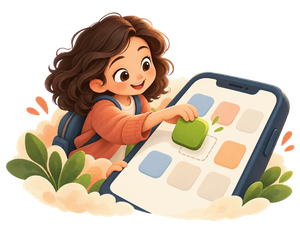
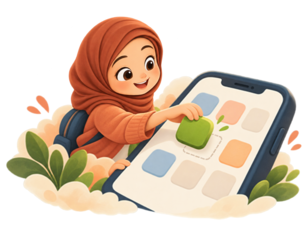
feat: replace Loader2 with Skeleton for improved loading indicators and update fee status chart configuration

diff --git a/app/teacher/fees/page.tsx b/app/teacher/fees/page.tsx
@@ -3,6 +3,7 @@ import { DashboardLayout } from "@/components/DashboardLayout";
 import { PageHeader } from "@/components/ui/PageHeader";
 import { IllustratedEmptyState } from "@/components/ui/IllustratedEmptyState";
 import { ApiErrorBanner } from "@/components/ui/ApiErrorBanner";
+import { Skeleton } from "@/components/ui/Skeleton";
 import { Input } from "@/components/ui/input";
 import { Textarea } from "@/components/ui/textarea";
 import { Button } from "@/components/ui/button";
@@ -37,7 +38,6 @@ import { useLanguageStore } from "@/store/language";
 import { t, type Lang } from "@/lib/i18n";
 import { cn } from "@/lib/utils";
 import {
-  Loader2,
   Receipt,
   Printer,
   IndianRupee,
@@ -52,6 +52,13 @@ import { PolarAngleAxis, RadialBar, RadialBarChart } from "recharts";
 
 const feeProgressChartConfig = {
   collected: { color: "#059669" },
+} satisfies ChartConfig;
+
+const feeStatusChartConfig = {
+  paid: { label: "Paid", color: "#059669" },
+  overdue: { label: "Overdue", color: "#dc2626" },
+  pending: { label: "Pending", color: "#f59e0b" },
+  waived: { label: "Waived", color: "#9ca3af" },
 } satisfies ChartConfig;
 
 const formatCurrency = (amount: number) => `₹${amount.toLocaleString("en-IN")}`;
@@ -262,34 +269,50 @@ function FeeSemiCircle({
   description: string;
 }) {
   const total = segments.reduce((sum, segment) => sum + segment.value, 0);
-  let position = 0;
-  const point = (fraction: number) => {
-    const angle = Math.PI * (1 - fraction);
-    return [100 + 78 * Math.cos(angle), 94 - 78 * Math.sin(angle)];
-  };
+  const chartData = [
+    {
+      ...Object.fromEntries(segments.map((segment, index) => [`segment${index}`, segment.value])),
+      empty: total === 0 ? 1 : 0,
+    },
+  ];
 
   return (
-    <svg viewBox="0 0 200 108" role="img" aria-label={description} className="mx-auto h-24 w-full max-w-52 sm:h-28">
-      <path d="M 22 94 A 78 78 0 0 1 178 94" fill="none" stroke="#e5e7eb" strokeWidth="17" strokeLinecap="round" />
-      {total > 0 && segments.map((segment, index) => {
-        const start = position;
-        position += segment.value / total;
-        if (segment.value <= 0) return null;
-        const [x1, y1] = point(start);
-        const [x2, y2] = point(position);
-        return (
-          <path
-            key={index}
-            d={`M ${x1} ${y1} A 78 78 0 0 1 ${x2} ${y2}`}
-            fill="none"
-            stroke={segment.color}
-            strokeWidth="17"
-          />
-        );
-      })}
-      <text x="100" y="72" textAnchor="middle" className="fill-gray-950 text-[23px] font-semibold">{value}</text>
-      <text x="100" y="89" textAnchor="middle" className="fill-gray-500 text-[13px] font-medium">{label}</text>
-    </svg>
+    <div className="relative mx-auto h-36 w-full max-w-72 sm:h-44" role="img" aria-label={description}>
+      <ChartContainer
+        config={feeStatusChartConfig}
+        initialDimension={{ width: 288, height: 176 }}
+        className="!aspect-auto h-full w-full"
+        aria-hidden="true"
+      >
+        <RadialBarChart
+          data={chartData}
+          startAngle={180}
+          endAngle={0}
+          cx="50%"
+          cy="92%"
+          innerRadius={88}
+          outerRadius={112}
+        >
+          <PolarAngleAxis type="number" domain={[0, Math.max(total, 1)]} tick={false} />
+          {segments.map((segment, index) => (
+            <RadialBar
+              key={index}
+              dataKey={`segment${index}`}
+              stackId="fees"
+              fill={segment.color}
+              isAnimationActive={false}
+            />
+          ))}
+          {total === 0 && (
+            <RadialBar dataKey="empty" fill="#e5e7eb" isAnimationActive={false} />
+          )}
+        </RadialBarChart>
+      </ChartContainer>
+      <div className="pointer-events-none absolute inset-x-0 bottom-3 text-center">
+        <div className="text-3xl font-semibold tabular-nums text-gray-950">{value}</div>
+        <div className="text-[16px] font-medium text-gray-500">{label}</div>
+      </div>
+    </div>
   );
 }
 
@@ -803,8 +826,25 @@ export default function TeacherFeesPage() {
       {error && <ApiErrorBanner message={error} onRetry={loadPayments} />}
 
       {payLoading ? (
-            <div className="flex items-center justify-center py-10 text-gray-400">
-              <Loader2 className="w-4 h-4 animate-spin" />
+            <div className="space-y-4" role="status" aria-label={t("common", "loading", lang)}>
+              <Skeleton className="h-44 rounded-2xl" />
+              <Skeleton className="h-5 w-28 rounded-lg" />
+              <div className="divide-y divide-gray-100 overflow-hidden rounded-2xl bg-white">
+                {Array.from({ length: 4 }).map((_, index) => (
+                  <div key={index} className="flex items-center gap-3 px-4 py-4 sm:gap-4">
+                    <div className="min-w-0 flex-1 space-y-2">
+                      <Skeleton className="h-4 w-2/5" />
+                      <Skeleton className="h-3 w-3/5" />
+                    </div>
+                    <div className="space-y-2">
+                      <Skeleton className="h-4 w-20" />
+                      <Skeleton className="ml-auto h-3 w-14" />
+                    </div>
+                    <Skeleton className="size-[30px] shrink-0 rounded-full" />
+                    <Skeleton className="h-5 w-5 shrink-0 rounded-md" />
+                  </div>
+                ))}
+              </div>
             </div>
           ) : feeTypes.length === 0 && payments.length === 0 && !error ? (
             <IllustratedEmptyState

diff --git a/app/teacher/best-performance/page.tsx b/app/teacher/best-performance/page.tsx
@@ -41,15 +41,15 @@ function ReportCard({ category, lang, count, downloading, onDownload, onPosters 
       <div className="relative z-10 flex h-full min-w-0 flex-col items-start justify-center pr-24 sm:pr-36">
         <h2 className="text-sm font-bold leading-5 text-gray-950 sm:text-base">{isMalayalam ? (category === "total" ? "ക്ലാസ് പ്രകടന റിപ്പോർട്ടും മികച്ച വിദ്യാർത്ഥികളുടെ പോസ്റ്ററുകളും" : "ഇബാദത്ത് പ്രകടന റിപ്പോർട്ടും മികച്ച വിദ്യാർത്ഥികളുടെ പോസ്റ്ററുകളും") : (category === "total" ? "Class performance report and top-student posters" : "Ibadah performance report and top-student posters")}</h2>
         {/* <p className="mt-1 text-xs leading-4 text-gray-600">{isMalayalam ? "ഈ കാലയളവിലെ മുഴുവൻ റാങ്കിംഗും ആദ്യ മൂന്ന് വിദ്യാർത്ഥികളുടെ വ്യക്തിഗത പോസ്റ്ററുകളും ലഭിക്കും." : "Get the full ranking for this period or a personalized poster for each of the top three students."}</p> */}
-        <ButtonGroup className="mt-4" aria-label={isMalayalam ? "പ്രകടന ഫയലുകൾ" : "Performance files"}>
+        <div className="mt-4 flex gap-2" aria-label={isMalayalam ? "പ്രകടന ഫയലുകൾ" : "Performance files"}>
           <Button type="button" size="xs" onClick={onDownload} disabled={count === 0 || downloading} aria-label={isMalayalam ? "റിപ്പോർട്ട് ഡൗൺലോഡ്" : "Download report"} className="gap-1.5 px-3">
-            {downloading ? <Loader2 className="size-4 animate-spin" aria-hidden="true" />:<SquareChartGantt/>}
+            {downloading ? <Loader2 className="size-4 animate-spin" aria-hidden="true" />:<SquareChartGantt size={16}/>}
             {isMalayalam ? "റിപ്പോർട്ട്" : "Report"}
           </Button>
           <Button type="button" size="xs" variant="outline" onClick={onPosters} disabled={count === 0} aria-label={isMalayalam ? "പോസ്റ്റർ തിരഞ്ഞെടുക്കുക" : "Choose poster"} className="bg-white px-3">
           <Image/>  {isMalayalam ? "പോസ്റ്റർ" : "Poster"}
           </Button>
-        </ButtonGroup>
+        </div>
       </div>
       <img src="/imgs/teacher/best-performance-report-art.webp" alt="" aria-hidden="true" className="pointer-events-none absolute bottom-0 right-0 size-28 object-contain sm:size-32" loading="lazy" />
     </section>

diff --git a/app/parent/fees/page.tsx b/app/parent/fees/page.tsx
@@ -24,7 +24,6 @@ import {
 import { useStudentFeesBatch, usePaymentReceipt } from "@/lib/queries";
 import {
   IndianRupee,
-  Loader2,
   Receipt,
   Printer,
   AlertCircle,
@@ -393,7 +392,7 @@ function OneTimePaymentDrawer({
                   >
                     {receiptPending &&
                     receiptPaymentId === payment.id ? (
-                      <Loader2 className="h-4 w-4 animate-spin" />
+                      <Skeleton className="h-4 w-4 shrink-0 rounded-full bg-white/50" />
                     ) : (
                       <Receipt className="h-4 w-4" />
                     )}
